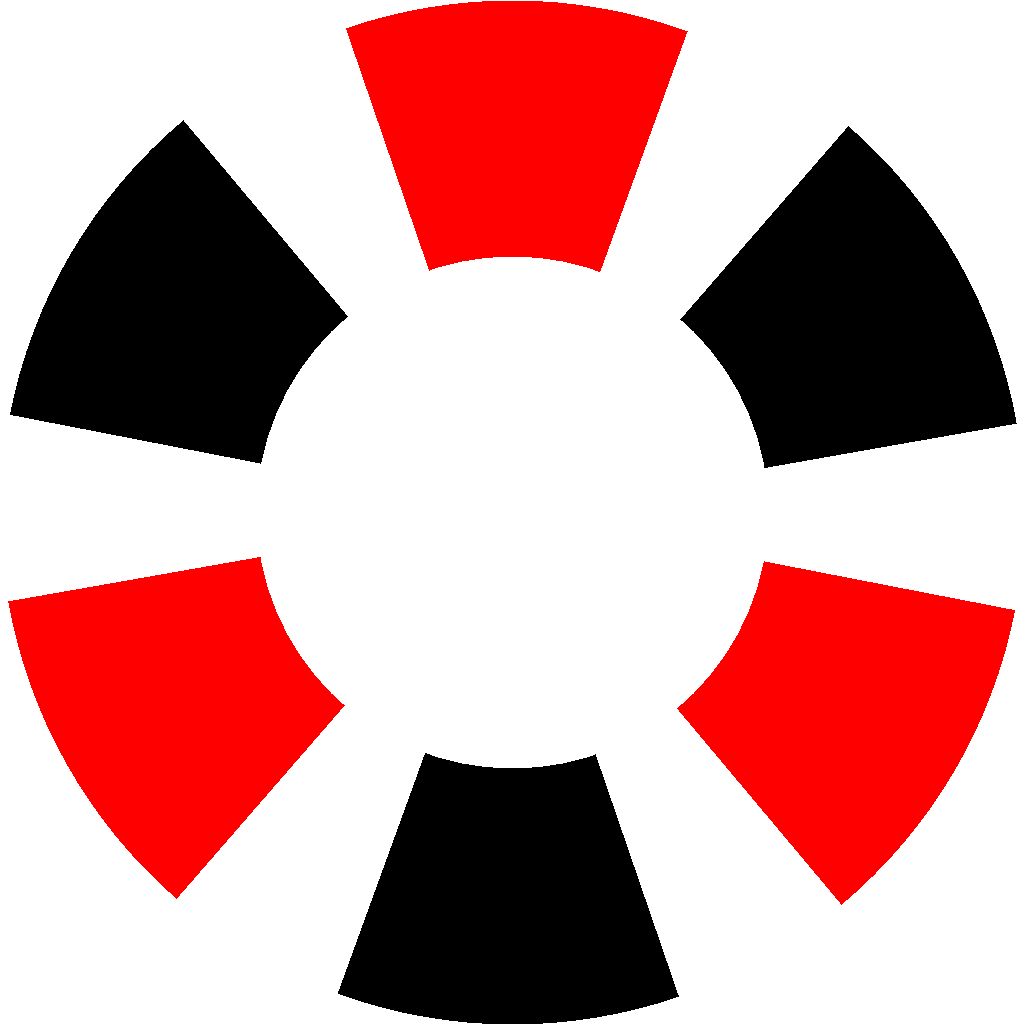
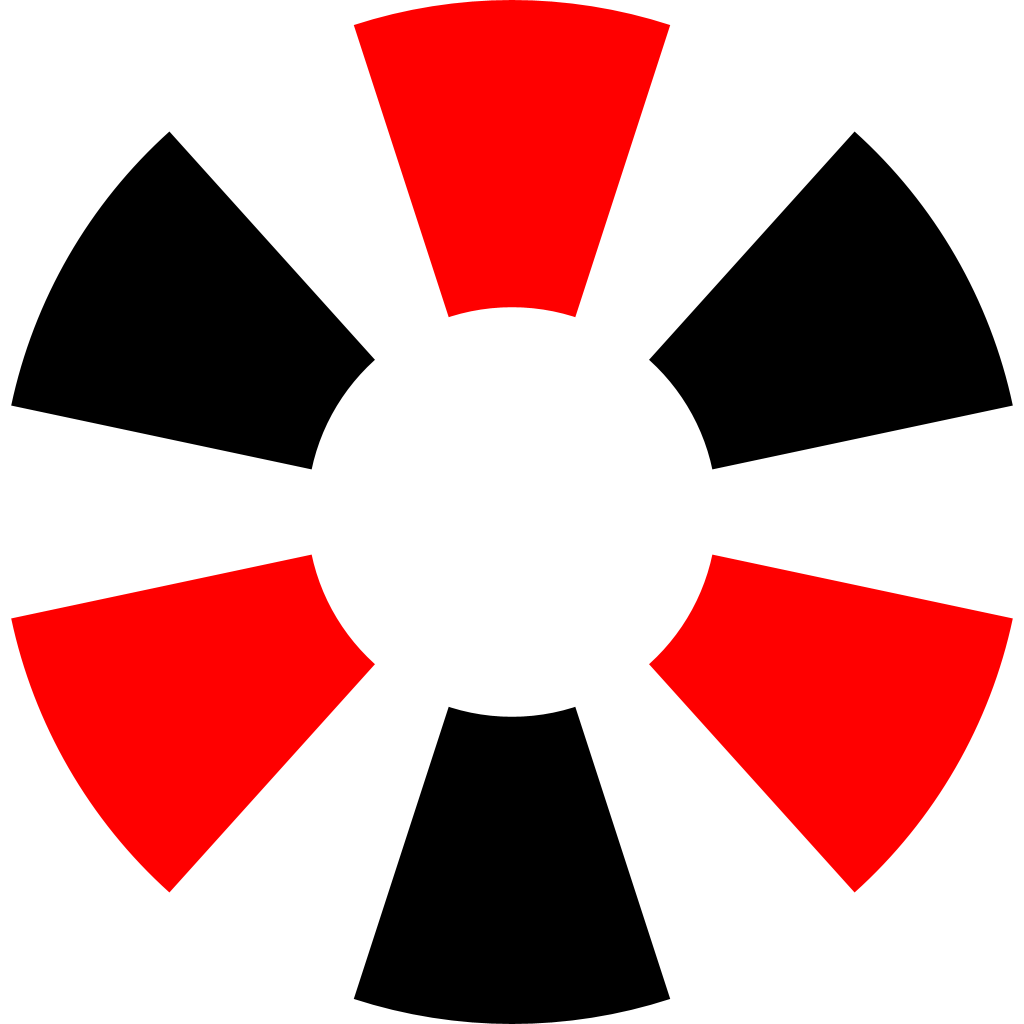
change png output from ImageIO to a better util (generate from svg).

diff --git a/src/main/java/com/xenoamess/xenoamess_avatar_generator/XenoAmessAvatarGenerator.java b/src/main/java/com/xenoamess/xenoamess_avatar_generator/XenoAmessAvatarGenerator.java
@@ -30,6 +30,7 @@ import java.awt.image.BufferedImage;
 import java.io.File;
 import java.io.FileWriter;
 import java.io.IOException;
+import java.io.Writer;
 import java.util.AbstractMap;
 import java.util.ArrayList;
 import java.util.Map.Entry;
@@ -48,58 +49,18 @@ public class XenoAmessAvatarGenerator {
     public static void generatePng(int imageDiameter, double innerRadiusRatio, String[] colorStrings,
                                    String plateColorString,
                                    int round, File outputFile) {
-
-        ArrayList<Entry<Color, Double>> colors = new ArrayList<>();
-
-        for (String string : colorStrings) {
-            colors.add(new AbstractMap.SimpleEntry<>(Color.decode(string), 0.30));
-        }
-
-        Color plateColor = Color.decode(plateColorString);
-
-        BufferedImage bi = new BufferedImage(imageDiameter, imageDiameter, BufferedImage.TYPE_INT_ARGB);
-        Graphics2D g2 = bi.createGraphics();
-        g2.setBackground(new Color(0, 0, 0, 0));
-        g2.clearRect(0, 0, imageDiameter, imageDiameter);
-
-        g2.setColor(plateColor);
-        g2.fillOval((int) (imageDiameter * 0.01), (int) (imageDiameter * 0.01), (int) (imageDiameter * 0.98),
-                (int) (imageDiameter * 0.98));
-
-        double eachSideSize = 360.0 / round;
-
-        double eachPlateSize = 1.0;
-        for (Entry<Color, Double> entry : colors) {
-            eachPlateSize -= entry.getValue();
-        }
-        double eachPlateAngle = eachPlateSize * eachSideSize / colors.size();
-        double nowAngle = 90 - eachSideSize * colors.get(0).getValue() / 2;
-        for (int i = 0; i < round; i++) {
-            for (Entry<Color, Double> entry : colors) {
-//                System.out.println(nowAngle);
-                g2.setColor(entry.getKey());
-                // System.out.println(eachSideSize);
-                g2.fillArc(0, 0, imageDiameter, imageDiameter, (int) nowAngle, (int) (eachSideSize * entry.getValue()));
-                nowAngle += eachSideSize * entry.getValue();
-//                System.out.println(nowAngle);
-                g2.setColor(plateColor);
-                g2.fillArc(0, 0, imageDiameter, imageDiameter, (int) nowAngle, (int) (eachPlateAngle));
-                nowAngle += eachPlateAngle;
-            }
-        }
-
-        g2.setColor(plateColor);
-        g2.fillOval((int) (imageDiameter - innerRadiusRatio * imageDiameter) / 2,
-                (int) (imageDiameter - innerRadiusRatio * imageDiameter) / 2, (int) (innerRadiusRatio * imageDiameter),
-                (int) (innerRadiusRatio * imageDiameter));
-
-        try {
-            ImageIO.write(bi, "PNG", outputFile);
-        } catch (IOException e) {
-            // TODO Auto-generated catch block
-            e.printStackTrace();
-        }
+        File svgFile = new File(outputFile.getAbsolutePath() + ".temp.svg");
+        generateSvg(imageDiameter, innerRadiusRatio, colorStrings,
+                plateColorString,
+                round, svgFile);
+        String commandString =
+                "-f " + svgFile.getAbsolutePath() + " -o " + outputFile.getParentFile().getAbsolutePath() + " -n " + outputFile.getName() +
+                        " -h " + imageDiameter +
+                        " -w " + imageDiameter;
+        org.sterl.svg2png.Main.main(commandString.split("\\s"));
+        svgFile.delete();
     }
+
 
     /**
      * @param imageDiameter    size of the image.
@@ -112,6 +73,26 @@ public class XenoAmessAvatarGenerator {
     public static void generateSvg(int imageDiameter, double innerRadiusRatio, String[] colorStrings,
                                    String plateColorString,
                                    int round, File outputFile) {
+        try (FileWriter fileWriter = new FileWriter(outputFile)) {
+            generateSvg(imageDiameter, innerRadiusRatio, colorStrings,
+                    plateColorString,
+                    round, fileWriter);
+        } catch (IOException e) {
+            e.printStackTrace();
+        }
+    }
+
+    /**
+     * @param imageDiameter    size of the image.
+     * @param innerRadiusRatio ratio of the inner circle.
+     * @param colorStrings     strings of the color
+     * @param plateColorString color of the plate.
+     * @param round            repeat time for every colors.
+     * @param outputWriter     output writer
+     */
+    public static void generateSvg(int imageDiameter, double innerRadiusRatio, String[] colorStrings,
+                                   String plateColorString,
+                                   int round, Writer outputWriter) throws IOException {
 
         StringBuilder svgStringBuilder = new StringBuilder();
         svgStringBuilder.append("<?xml version=\"1.0\" encoding=\"UTF-8\"?>")
@@ -164,17 +145,80 @@ public class XenoAmessAvatarGenerator {
                 .append(plateColorString)
                 .append("\"/>");
         svgStringBuilder.append("</g></svg>");
-        try (FileWriter fileWriter = new FileWriter(outputFile)) {
-            fileWriter.write(svgStringBuilder.toString());
-        } catch (IOException e) {
-            e.printStackTrace();
-        }
+        outputWriter.write(svgStringBuilder.toString());
     }
 
 
     public static void main(String[] args) {
         new File("out").mkdir();
-        generatePng(3072, 0.4, new String[]{"#FF0000", "#000000"}, "#FFFFFF", 3, new File("out/test.png"));
+        generatePng(10240, 0.4, new String[]{"#FF0000", "#000000"}, "#FFFFFF", 3, new File("out/test.png"));
         generateSvg(10240, 0.4, new String[]{"#FF0000", "#000000"}, "#FFFFFF", 3, new File("out/test.svg"));
+    }
+
+    /**
+     * Original version of generatePng.
+     *
+     * @param imageDiameter    size of the image.
+     * @param innerRadiusRatio ratio of the inner circle.
+     * @param colorStrings     strings of the color
+     * @param plateColorString color of the plate.
+     * @param round            repeat time for every colors.
+     * @param outputFile       output File
+     * @deprecated It was written in ImageIO thus buggy and low performance.
+     */
+    @Deprecated
+    public static void generatePng_ImageIO(int imageDiameter, double innerRadiusRatio, String[] colorStrings,
+                                           String plateColorString,
+                                           int round, File outputFile) {
+
+        ArrayList<Entry<Color, Double>> colors = new ArrayList<>();
+
+        for (String string : colorStrings) {
+            colors.add(new AbstractMap.SimpleEntry<>(Color.decode(string), 0.30));
+        }
+
+        Color plateColor = Color.decode(plateColorString);
+
+        BufferedImage bi = new BufferedImage(imageDiameter, imageDiameter, BufferedImage.TYPE_INT_ARGB);
+        Graphics2D g2 = bi.createGraphics();
+        g2.setBackground(new Color(0, 0, 0, 0));
+        g2.clearRect(0, 0, imageDiameter, imageDiameter);
+
+        g2.setColor(plateColor);
+        g2.fillOval((int) (imageDiameter * 0.01), (int) (imageDiameter * 0.01), (int) (imageDiameter * 0.98),
+                (int) (imageDiameter * 0.98));
+
+        double eachSideSize = 360.0 / round;
+
+        double eachPlateSize = 1.0;
+        for (Entry<Color, Double> entry : colors) {
+            eachPlateSize -= entry.getValue();
+        }
+        double eachPlateAngle = eachPlateSize * eachSideSize / colors.size();
+        double nowAngle = 90 - eachSideSize * colors.get(0).getValue() / 2;
+        for (int i = 0; i < round; i++) {
+            for (Entry<Color, Double> entry : colors) {
+//                System.out.println(nowAngle);
+                g2.setColor(entry.getKey());
+                // System.out.println(eachSideSize);
+                g2.fillArc(0, 0, imageDiameter, imageDiameter, (int) nowAngle, (int) (eachSideSize * entry.getValue()));
+                nowAngle += eachSideSize * entry.getValue();
+//                System.out.println(nowAngle);
+                g2.setColor(plateColor);
+                g2.fillArc(0, 0, imageDiameter, imageDiameter, (int) nowAngle, (int) (eachPlateAngle));
+                nowAngle += eachPlateAngle;
+            }
+        }
+
+        g2.setColor(plateColor);
+        g2.fillOval((int) (imageDiameter - innerRadiusRatio * imageDiameter) / 2,
+                (int) (imageDiameter - innerRadiusRatio * imageDiameter) / 2, (int) (innerRadiusRatio * imageDiameter),
+                (int) (innerRadiusRatio * imageDiameter));
+
+        try {
+            ImageIO.write(bi, "PNG", outputFile);
+        } catch (IOException e) {
+            e.printStackTrace();
+        }
     }
 }

diff --git a/src/test/java/com/xenoamess/xenoamess_avatar_generator/XenoAmessAvatarGeneratorTest.java b/src/test/java/com/xenoamess/xenoamess_avatar_generator/XenoAmessAvatarGeneratorTest.java
@@ -33,15 +33,25 @@ import static org.junit.jupiter.api.Assertions.assertNotEquals;
 
 public class XenoAmessAvatarGeneratorTest {
 
+    public void singleTest(int imageDiameter) {
+        new File("out").mkdir();
+        XenoAmessAvatarGenerator.generatePng(imageDiameter, 0.4, new String[]{"#FF0000", "#000000"}, "#FFFFFF", 3,
+                new File(
+                        "out/output_" + imageDiameter + ".png"));
+        XenoAmessAvatarGenerator.generateSvg(imageDiameter, 0.4, new String[]{"#FF0000", "#000000"}, "#FFFFFF", 3,
+                new File(
+                        "out/output_" + imageDiameter + ".svg"));
+
+        assertNotEquals(new File("out/output_" + imageDiameter + ".png").length(), 0);
+        assertNotEquals(new File("out/output_" + imageDiameter + ".svg").length(), 0);
+    }
+
     @Test
     public void mainTest() {
-        new File("out").mkdir();
-        XenoAmessAvatarGenerator.generatePng(3072, 0.4, new String[]{"#FF0000", "#000000"}, "#FFFFFF", 3, new File(
-                "out/test.png"));
-        XenoAmessAvatarGenerator.generateSvg(10240, 0.4, new String[]{"#FF0000", "#000000"}, "#FFFFFF", 3, new File(
-                "out/test.svg"));
-
-        assertNotEquals(new File("out/test.png").length(), 0);
-        assertNotEquals(new File("out/test.svg").length(), 0);
+        singleTest(64);
+        singleTest(1024);
+        singleTest(8192);
+//        singleTest(10240);
+//        singleTest(20480);
     }
 }
